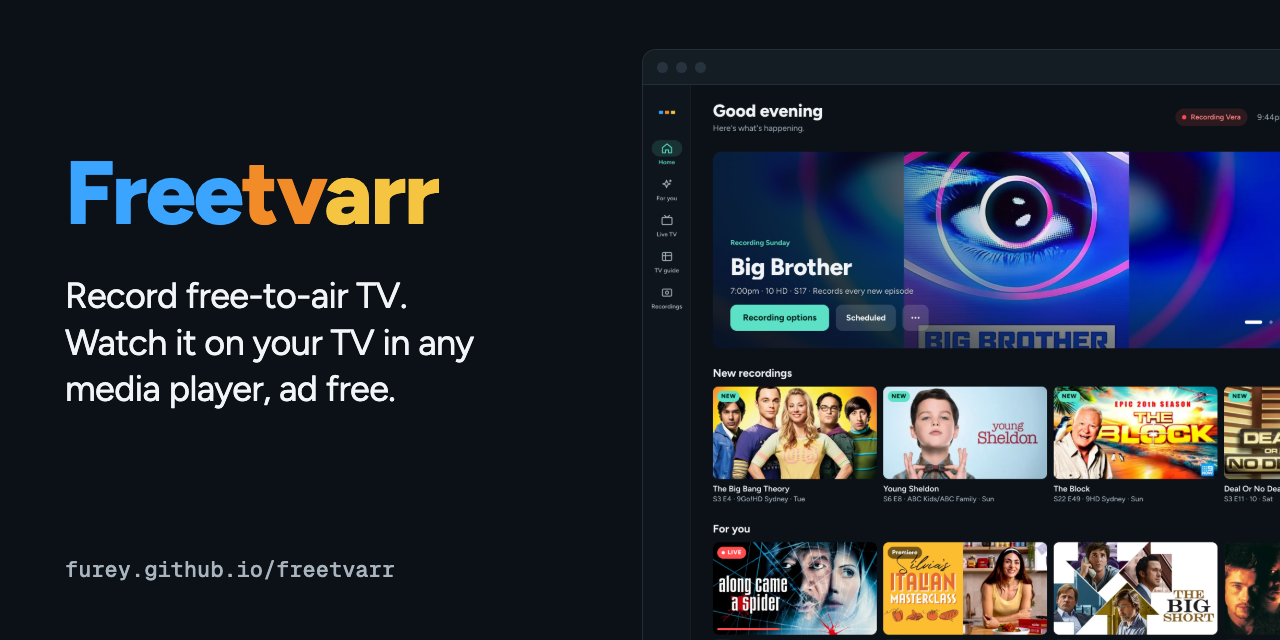
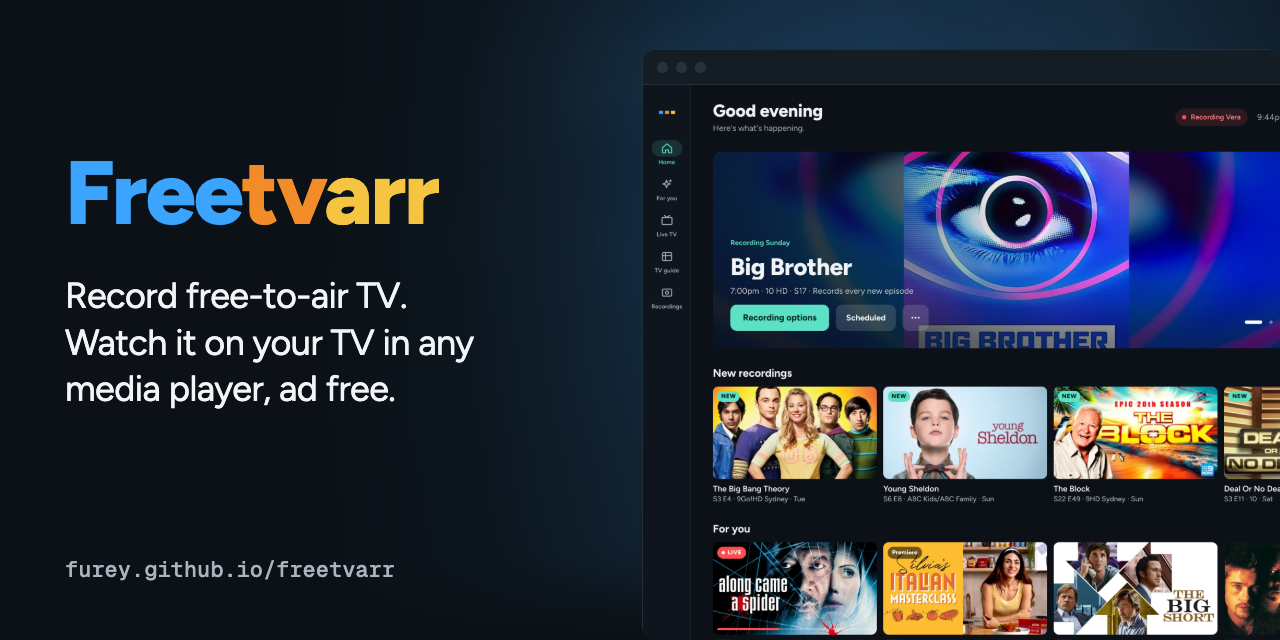
Moved the mist shader into a shared module and painted a subtle blue mist behind the screenshot side of the product social cards, with SwiftShader rendering it in the capture script.

Changed region(s): [[0.4375, 0.0, 1.0, 0.8438]]

diff --git a/docs/.vitepress/theme/HeroGlow.vue b/docs/.vitepress/theme/HeroGlow.vue
@@ -1,6 +1,7 @@
 <script setup>
 import { useData } from 'vitepress'
 import { ref, computed, watch, onMounted, onUnmounted } from 'vue'
+import { MIST_FRAG, MIST_VERT } from './mist-shader.js'
 
 const { isDark } = useData()
 const mounted = ref(false)
@@ -18,26 +19,6 @@ onMounted(() => {
 })
 
 onUnmounted(() => stop())
-
-const FRAG = `precision mediump float;
-uniform vec2 o;uniform float b;uniform vec2 f;uniform float s;uniform float t;uniform vec3 c1;uniform vec3 c2;uniform float k;
-float h(vec2 p){return fract(sin(dot(p,vec2(127.1,311.7)))*43758.5453);}
-float n(vec2 p){vec2 i=floor(p),f=fract(p);f=f*f*(3.-2.*f);
-return mix(mix(h(i),h(i+vec2(1,0)),f.x),mix(h(i+vec2(0,1)),h(i+1.),f.x),f.y);}
-float fbm(vec2 p){float v=0.,a=.5;for(int i=0;i<3;i++){v+=a*n(p);p=p*2.03+17.;a*=.5;}return v;}
-void main(){
-vec2 p=(gl_FragCoord.xy-o)/s;float d=length(p);vec2 q=p*1.1;
-vec2 w=vec2(fbm(q*.8+vec2(t*.011,-t*.007)),fbm(q*.8+vec2(5.2,1.3)+vec2(-t*.009,t*.013)));
-float far=fbm(q+1.8*w+vec2(-t*.006,t*.004));
-vec2 v=vec2(fbm(q*1.7+w*1.2+vec2(t*.017,t*.01)),fbm(q*1.7+vec2(8.3,2.8)-vec2(t*.012,-t*.015)));
-float near=fbm(q*2.2+2.4*v-vec2(t*.02,-t*.008));
-float i=exp(-d*1.9)*(.25+far*.55+near*near*.6)+exp(-d*d*5.)*.3;
-i*=smoothstep(-1.,-.2,dot(p,f))*smoothstep(0.,b,gl_FragCoord.y);
-vec3 c=mix(c1,c2,smoothstep(.35,.75,near*.6+far*.5));
-float a=clamp(i*k,0.,1.);
-gl_FragColor=vec4(c*a,a);}`
-
-const VERT = 'attribute vec2 v;void main(){gl_Position=vec4(v,0.,1.);}'
 
 const hexToVec = (hex) => [1, 3, 5].map((i) => parseInt(hex.slice(i, i + 2), 16) / 255)
 
@@ -66,7 +47,7 @@ const highlight = (colour) => mixVec(colour, [1, 1, 1], 0.35)
 
 const buildProgram = (gl) => {
   const program = gl.createProgram()
-  for (const [type, src] of [[gl.VERTEX_SHADER, VERT], [gl.FRAGMENT_SHADER, FRAG]]) {
+  for (const [type, src] of [[gl.VERTEX_SHADER, MIST_VERT], [gl.FRAGMENT_SHADER, MIST_FRAG]]) {
     const shader = gl.createShader(type)
     gl.shaderSource(shader, src)
     gl.compileShader(shader)

diff --git a/docs/.vitepress/theme/mist-shader.js b/docs/.vitepress/theme/mist-shader.js
@@ -1,0 +1,19 @@
+export const MIST_FRAG = `precision mediump float;
+uniform vec2 o;uniform float b;uniform vec2 f;uniform float s;uniform float t;uniform vec3 c1;uniform vec3 c2;uniform float k;
+float h(vec2 p){return fract(sin(dot(p,vec2(127.1,311.7)))*43758.5453);}
+float n(vec2 p){vec2 i=floor(p),f=fract(p);f=f*f*(3.-2.*f);
+return mix(mix(h(i),h(i+vec2(1,0)),f.x),mix(h(i+vec2(0,1)),h(i+1.),f.x),f.y);}
+float fbm(vec2 p){float v=0.,a=.5;for(int i=0;i<3;i++){v+=a*n(p);p=p*2.03+17.;a*=.5;}return v;}
+void main(){
+vec2 p=(gl_FragCoord.xy-o)/s;float d=length(p);vec2 q=p*1.1;
+vec2 w=vec2(fbm(q*.8+vec2(t*.011,-t*.007)),fbm(q*.8+vec2(5.2,1.3)+vec2(-t*.009,t*.013)));
+float far=fbm(q+1.8*w+vec2(-t*.006,t*.004));
+vec2 v=vec2(fbm(q*1.7+w*1.2+vec2(t*.017,t*.01)),fbm(q*1.7+vec2(8.3,2.8)-vec2(t*.012,-t*.015)));
+float near=fbm(q*2.2+2.4*v-vec2(t*.02,-t*.008));
+float i=exp(-d*1.9)*(.25+far*.55+near*near*.6)+exp(-d*d*5.)*.3;
+i*=smoothstep(-1.,-.2,dot(p,f))*smoothstep(0.,b,gl_FragCoord.y);
+vec3 c=mix(c1,c2,smoothstep(.35,.75,near*.6+far*.5));
+float a=clamp(i*k,0.,1.);
+gl_FragColor=vec4(c*a,a);}`
+
+export const MIST_VERT = 'attribute vec2 v;void main(){gl_Position=vec4(v,0.,1.);}'
